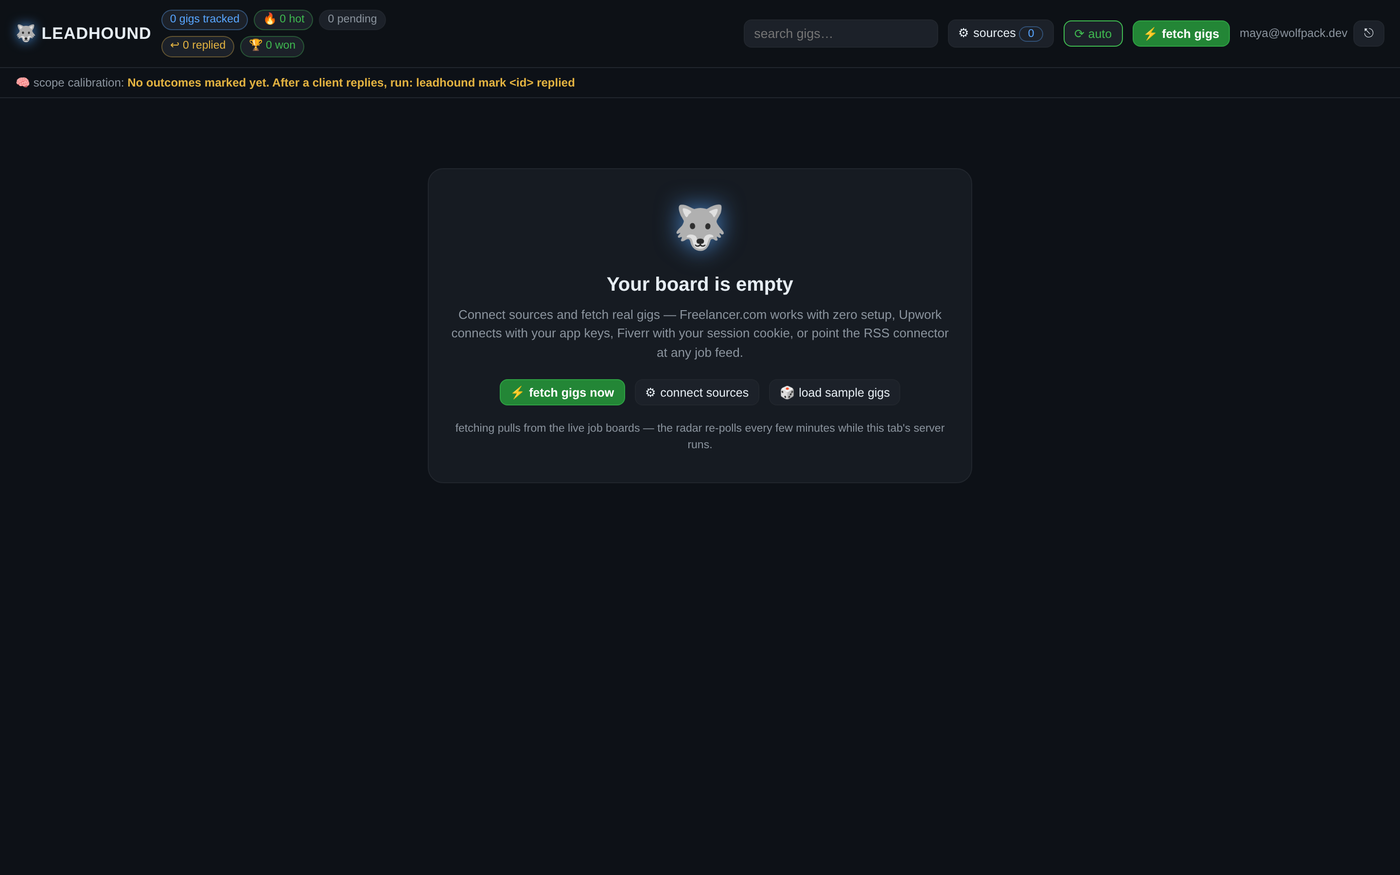
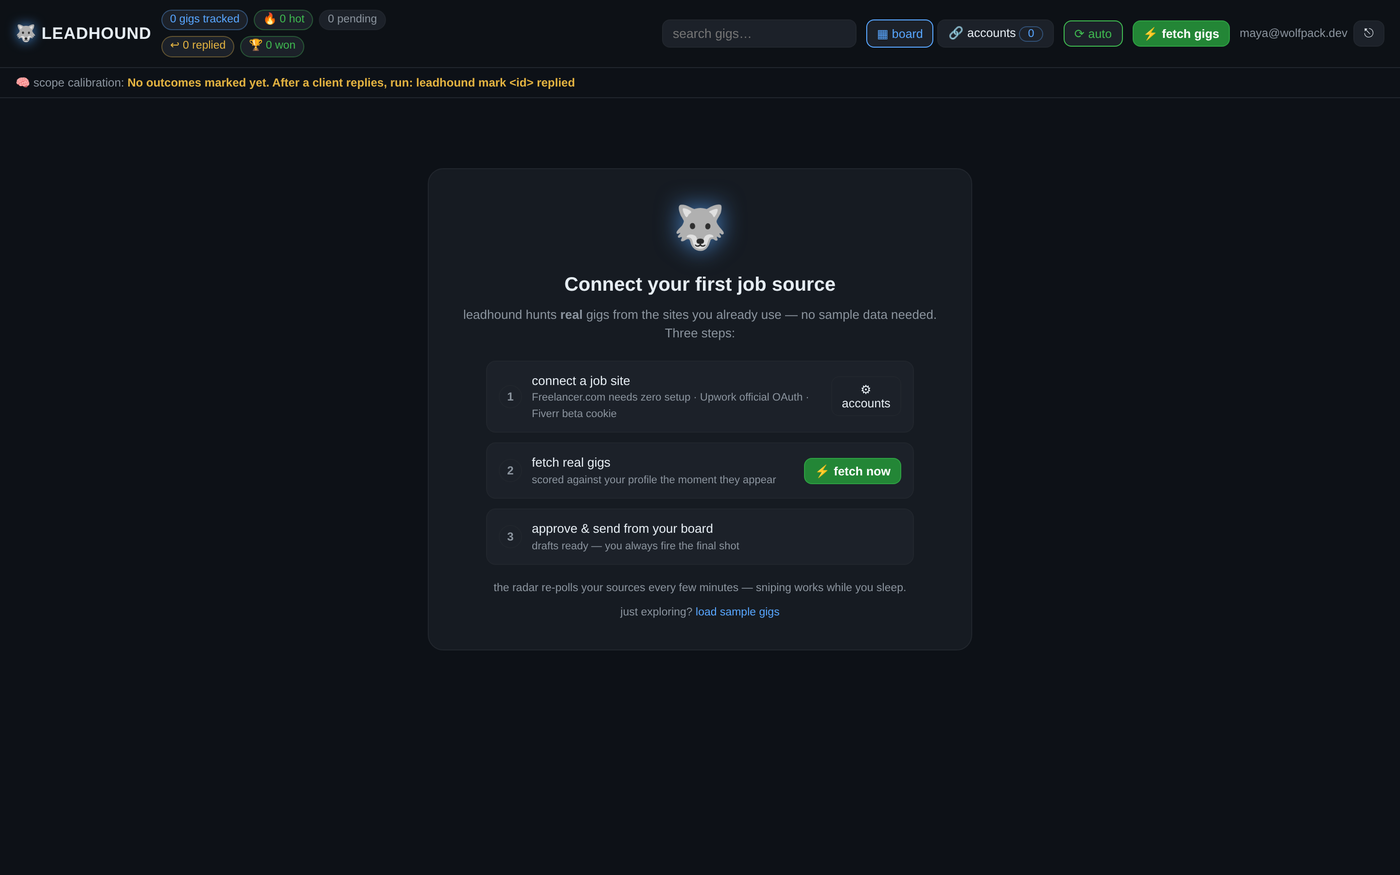
release: v0.6.0 — the real-accounts release
- CHANGELOG 0.6.0: accounts hub, wizards, radar visibility, connect
  checklist, demo demoted
- README: sources section rewritten around the accounts tab (state badges,
  save & test, radar heartbeat), roadmap checked off
- media re-shot from a LIVE session: the hero GIF and board screenshot now
  show 50 real Freelancer.com gigs fetched through the new accounts flow
  (no more sample data in the landing page)
- version 0.6.0; wheel/sdist metadata refresh

diff --git a/leadhound/__init__.py b/leadhound/__init__.py
@@ -4,4 +4,4 @@ Watches freelance job boards, scores every gig against your profile,
 drafts the proposal in your voice. You just approve and send.
 """
 
-__version__ = "0.5.0"
+__version__ = "0.6.0"

diff --git a/README.md b/README.md
@@ -70,7 +70,7 @@ leadhound web --port 7800
 ## 🎮 Usage — every way to drive it
 
 **The dashboard** (`leadhound web`) is the main cockpit — kanban board, live search,
-in-browser draft editor, sources drawer, background radar. Everything below is optional
+in-browser draft editor, accounts hub, background radar. Everything below is optional
 and drives the same pipeline:
 
 | Command | What it does |
@@ -106,10 +106,10 @@ leadhound replaces all of that with one local watcher that never sleeps and a vo
 
 ## 🔌 Sources — connect the job sites
 
-The **⚙ sources** drawer is where the hunting happens. Every source is a connector with its own setup, status line and "⚡ run now" button. Enabled sources re-poll automatically every `interval_minutes` while the app runs.
+The **🔗 accounts** tab is where the hunting happens. Every job site gets a card with its connection state (✅ connected · ❌ error · ⚠ setup needed · ⚫ off), its last sweep (+ how many new gigs, or the real error), inline settings and a **⚡ save & test** probe. Enabled sources re-poll automatically every `interval_minutes` while the app runs — the accounts page shows the radar's live heartbeat.
 
 <p align="center">
-  <img src="docs/screenshot-sources.png" alt="the sources drawer — 8 connectors with per-source setup, masked secrets, run-now buttons" width="720">
+  <img src="docs/screenshot-sources.png" alt="the accounts hub — 8 job sites with connection state badges, setup wizards, save & test probing" width="720">
 </p>
 
 | Connector | Setup | What you get |
@@ -149,7 +149,7 @@ Credentials live in your local SQLite, masked in the UI (`•••`) and never 
 | **Approval queue** | Rich CLI queue or Telegram/Discord/Slack cards. **You always fire the final shot.** leadhound is a radar + copilot, *not* an auto-bidder. |
 | **Client intel** | Cross-references your own gig history: repeat posters and repeat lowballers get flagged before you spend a minute on the draft. |
 | **Learning loop** | `leadhound mark <id> won/lost/replied` → stats calibrate: winners vs losers by score, with hints to tighten your scope. The tool gets sharper the longer you hunt. |
-| **Web dashboard** | `leadhound web` — a login-protected kanban board of your pipeline: create an account, connect sources in the ⚙ drawer, fetch gigs, drag pending → approved → sent, edit drafts in-browser, mark outcomes, live search. Accounts, sessions and per-source configs are stored locally in SQLite. Binds to 127.0.0.1 (or `--host 0.0.0.0` to drive it from your phone). |
+| **Web dashboard** | `leadhound web` — a login-protected kanban board of your pipeline: create an account, connect job sites in the accounts tab (setup wizards included), fetch gigs, drag pending → approved → sent, edit drafts in-browser, mark outcomes, live search. Accounts, sessions and per-source configs are stored locally in SQLite. Binds to 127.0.0.1 (or `--host 0.0.0.0` to drive it from your phone). |
 | **GitHub recon** | `leadhound profile learn <you>` — scans your public repos, ranks the languages/topics you actually ship, and merges them into your skills list. Zero-config personalization. |
 | **Data export** | `leadhound export --format csv\|json` — your whole gig history as clean rows for spreadsheets, scripts or your CRM. No lock-in. |
 
@@ -274,6 +274,7 @@ Anything with Python 3.11+ — or grab a native one-file binary (Windows `.exe`,
 - [x] `leadhound export` — CSV/JSON of the whole pipeline
 - [x] **Real backend** — FastAPI REST API, login system, per-account data
 - [x] **Source connectors** — Freelancer.com, Upwork (OAuth2), Fiverr (beta), custom RSS
+- [x] **Accounts hub** — connection state, setup wizards, save & test probing, radar heartbeat
 - [ ] Hosted SaaS mode — same core, multi-tenant cloud deploy (the account + connector schema is already shaped for it)
 - [ ] Proposal A/B testing — two drafts, track which tone wins
 - [ ] Agency mode — monitor a bench of freelancer profiles

diff --git a/CHANGELOG.md b/CHANGELOG.md
@@ -3,6 +3,21 @@
 All notable changes to leadhound are documented here.
 Format follows [Keep a Changelog](https://keepachangelog.com/en/1.1.0/); versioning follows [SemVer](https://semver.org/).
 
+## [0.6.0] - 2026-10-04
+
+The real-accounts release. The dashboard now leads with connecting your job sites — the sample data takes a back seat.
+
+### Added
+- **Accounts hub**: a full-page connections view (board/accounts tabs) — one card per job site with an honest state badge (connected / error / on-not-tested / setup needed / off), last-sweep line with the real error text, inline settings, and per-source `save & test` probing.
+- **Setup wizards**: Upwork (free dev-app steps, copyable redirect URI, one-click OAuth connect) and Fiverr (cookie-extraction steps with an honest beta warning).
+- **Radar visibility**: `GET /api/radar` exposes the poller's real state — running, sweep interval, armed sources — and the accounts page shows it as a heartbeat.
+- **First-run connect checklist**: the empty board is now a 3-step list (connect a source → fetch real gigs → approve & send) that ticks itself green as you go.
+- Fetch-all now reports per source with friendly labels ("Freelancer.com +23 · RemoteOK +0").
+
+### Changed
+- The sources drawer is gone — replaced by the accounts hub.
+- **Demo demoted**: the 🎲 sample-gigs button left the hero; it's a small "just exploring?" link now. The app opens pointing at real hunting, not sample data.
+
 ## [0.5.0] - 2026-10-04
 
 The real-backend release. No more demo-by-default: log in, connect the job sites you actually want, and fetch live gigs.
